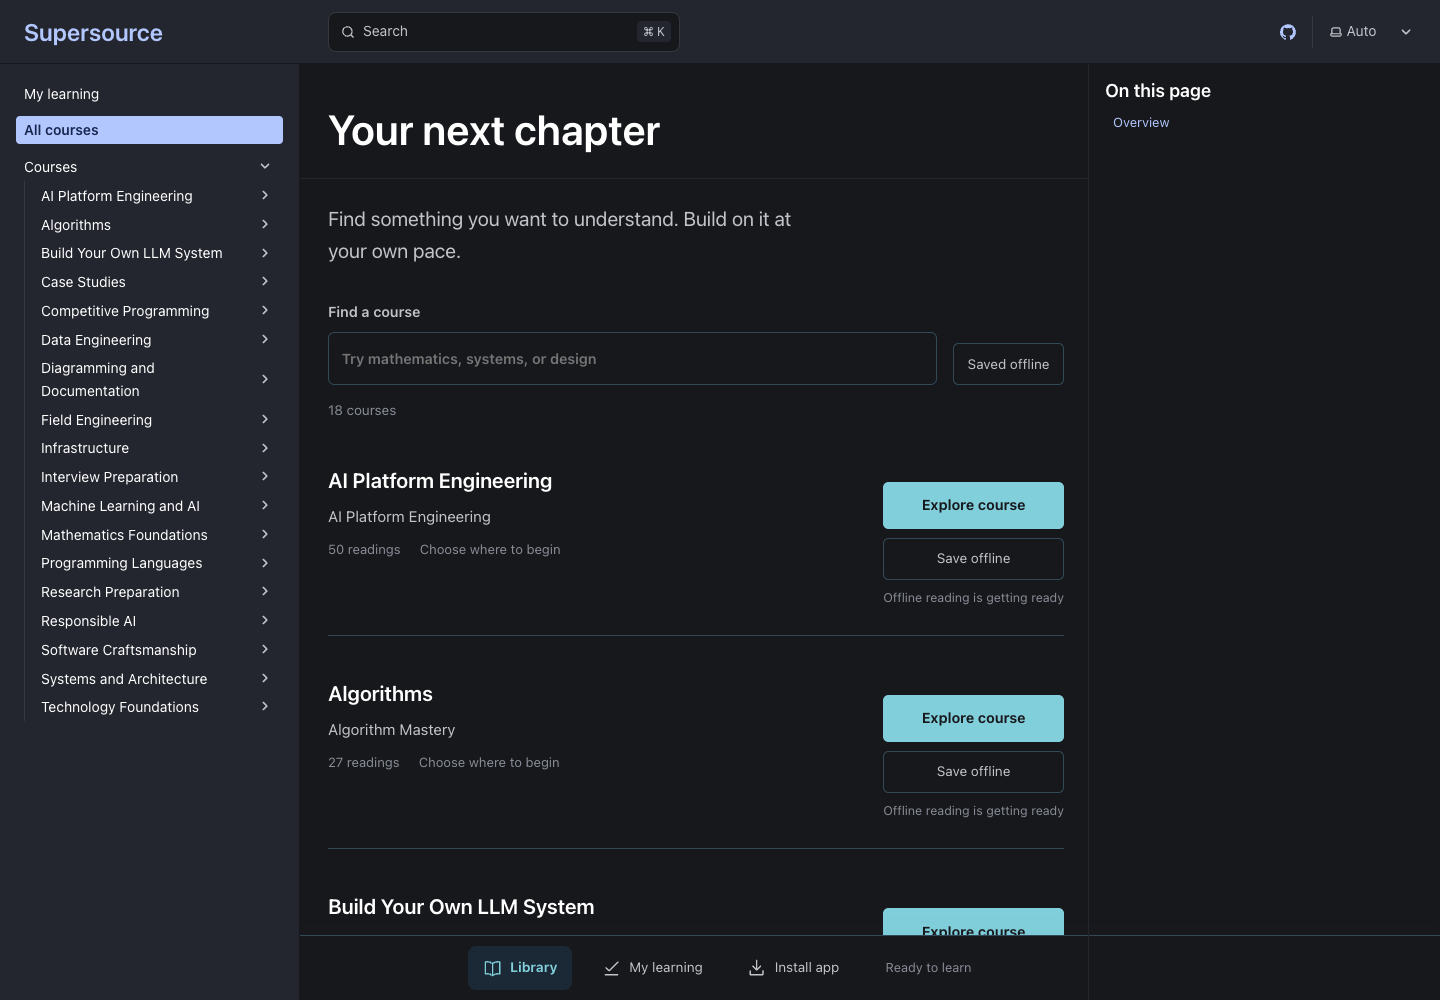
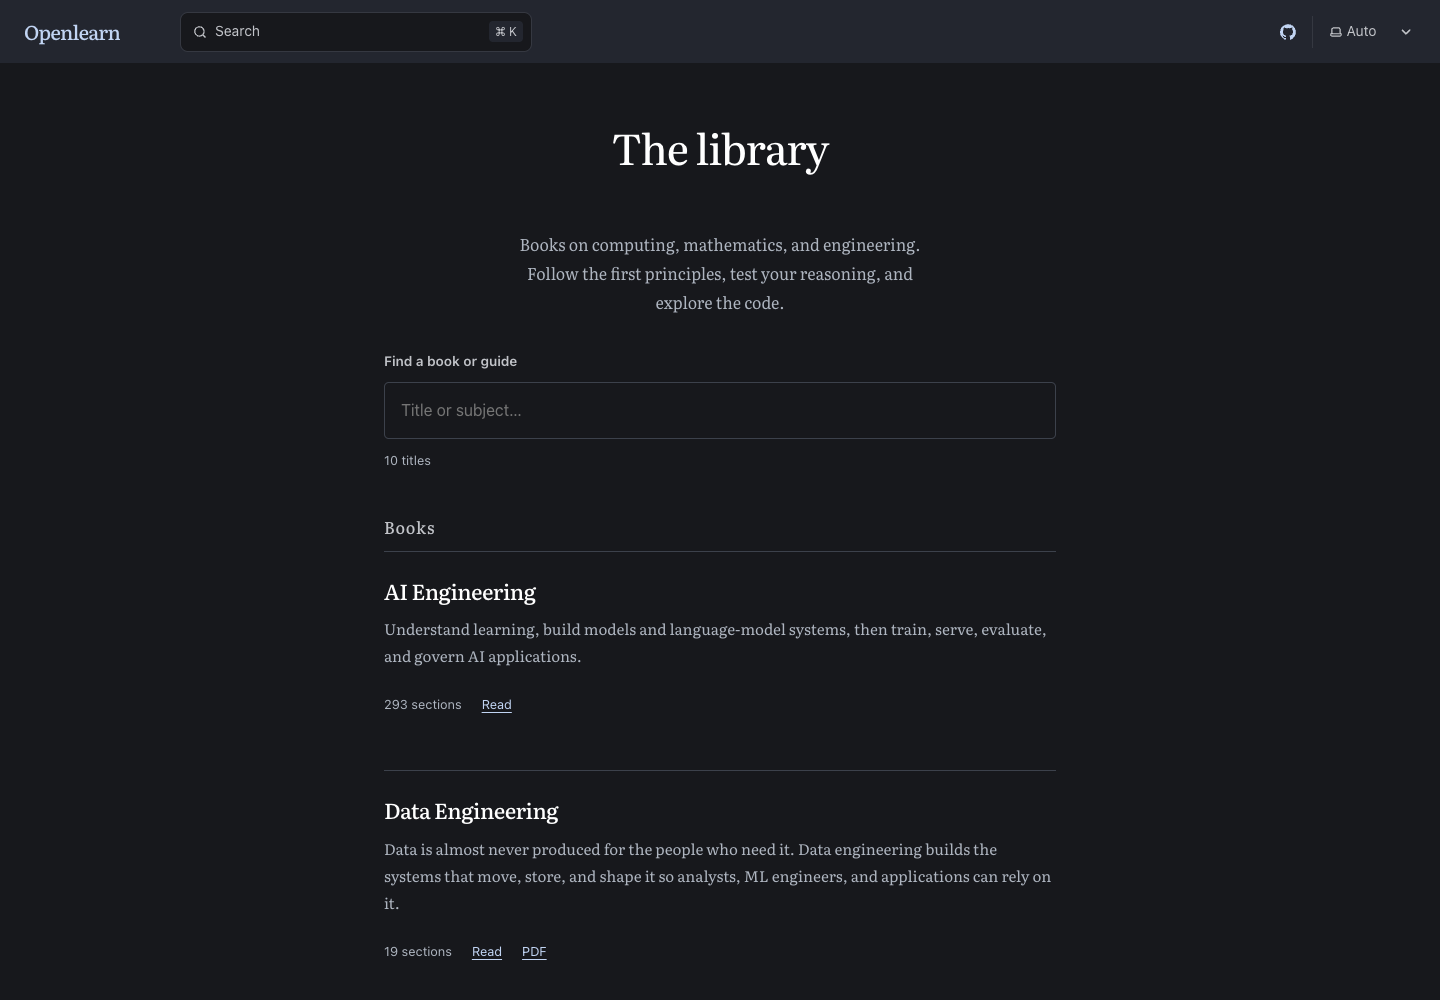
docs(showcase): recapture screenshots for the Openlearn library

diff --git a/README.md b/README.md
@@ -18,7 +18,7 @@
 </p>
 
 <p align="center">
-  <img src="showcase/course-catalog.png" alt="Course catalog with alphabetically ordered courses and a search field" width="80%">
+  <img src="showcase/course-catalog.png" alt="The Openlearn library page with a book search field and a list of free technical books" width="80%">
 </p>
 
 ## Features
